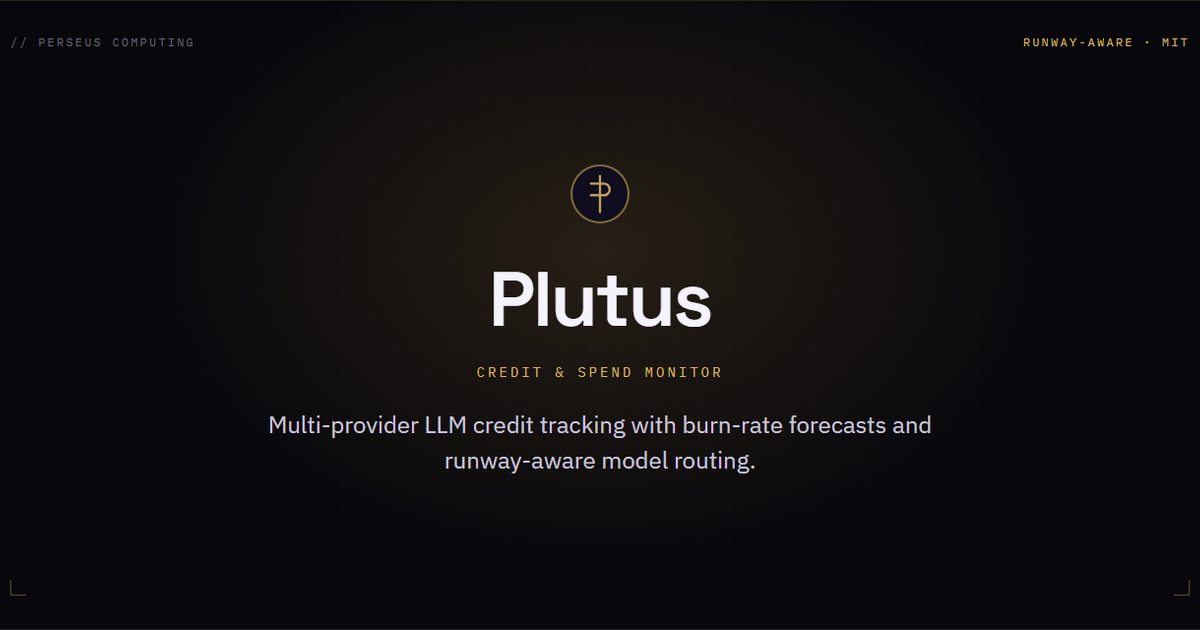
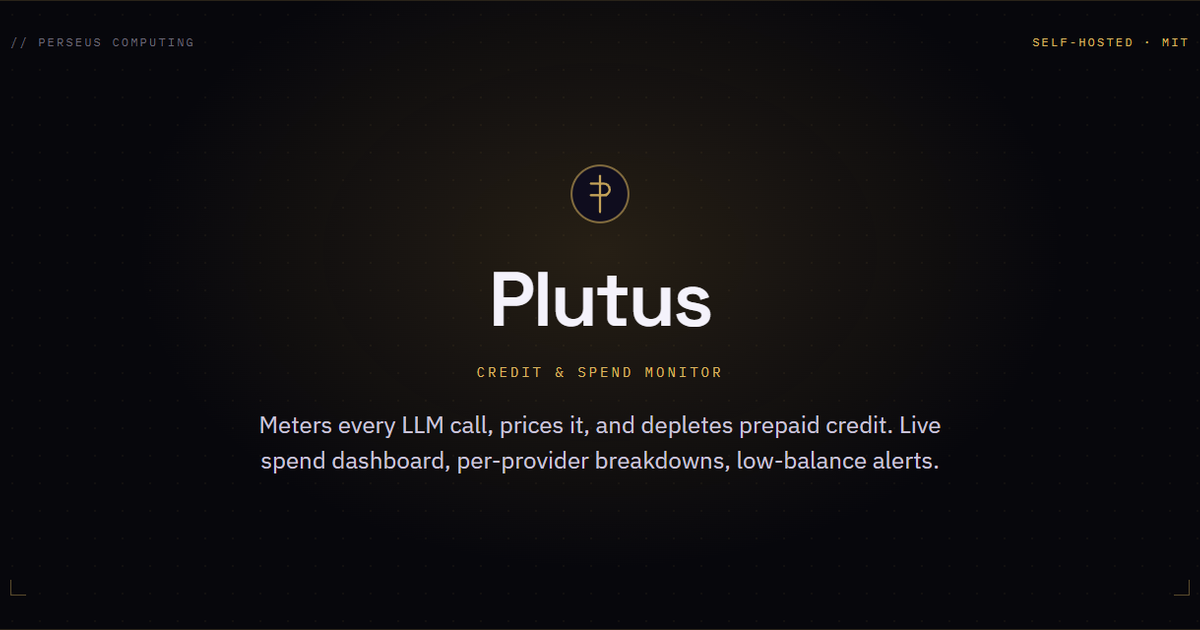
Correct Plutus positioning to shipped product
Plutus is usage metering + prepaid-credit billing (Stripe, track()/Meter,
live spend dashboard), not "runway-aware model routing". Rewrites the
Plutus page (hero, features, ledger demo, badges, meta), homepage card,
and founder line to match; fixes the fake `plutus balance` CLI to real
`plutus demo` / `plutus meter`. Refreshes the Plutus OG share image.
Zero em-dashes preserved.

Changed region(s): [[0.2158, 0.7238, 0.8017, 0.754], [0.2158, 0.6635, 0.8017, 0.6937], [0.8325, 0.0603, 0.9558, 0.0905]]

diff --git a/plutus/index.html b/plutus/index.html
@@ -7,19 +7,19 @@
 <script>try{var t=localStorage.getItem('perseus-theme');if(t)document.documentElement.setAttribute('data-theme',t)}catch(e){}</script>
 <link rel="icon" href="/assets/perseus.svg">
 <link rel="canonical" href="https://perseus.observer/plutus/">
-<meta name="description" content="Plutus tracks live LLM provider balances and spend in one local ledger: hourly refresh, per-provider breakdown, no dashboard login.">
+<meta name="description" content="Plutus meters every LLM call, prices it, and depletes prepaid credit: one local ledger, live spend dashboard, per-provider breakdowns. Self-hosted, MIT.">
 <meta name="theme-color" content="#0A0A12">
 <meta property="og:type" content="website">
 <meta property="og:site_name" content="Perseus">
 <meta property="og:title" content="Plutus: LLM provider credit &amp; spend monitor">
-<meta property="og:description" content="Plutus tracks live LLM provider balances and spend in one local ledger: hourly refresh, per-provider breakdown, no dashboard login.">
+<meta property="og:description" content="Plutus meters every LLM call, prices it, and depletes prepaid credit: one local ledger, live spend dashboard, per-provider breakdowns. Self-hosted, MIT.">
 <meta property="og:url" content="https://perseus.observer/plutus/">
 <meta property="og:image" content="https://perseus.observer/assets/og/plutus.png">
 <meta property="og:image:width" content="1200">
 <meta property="og:image:height" content="630">
 <meta name="twitter:card" content="summary_large_image">
 <meta name="twitter:title" content="Plutus: LLM provider credit &amp; spend monitor">
-<meta name="twitter:description" content="Plutus tracks live LLM provider balances and spend in one local ledger: hourly refresh, per-provider breakdown, no dashboard login.">
+<meta name="twitter:description" content="Plutus meters every LLM call, prices it, and depletes prepaid credit: one local ledger, live spend dashboard, per-provider breakdowns. Self-hosted, MIT.">
 <meta name="twitter:image" content="https://perseus.observer/assets/og/plutus.png">
 <link rel="stylesheet" href="/assets/fonts.css">
 <link rel="stylesheet" href="/assets/tokens.css">
@@ -55,19 +55,19 @@
   <div class="hero-inner">
     <span class="eyebrow gold">
       <svg width="13" height="13" viewBox="0 0 13 13" fill="none" stroke="currentColor" stroke-width="1.4" aria-hidden="true"><circle cx="6.5" cy="6.5" r="5"/><path d="M6.5 4v5M5 5.2h2.2a1.1 1.1 0 010 2.2H5"/></svg>
-      Provider credit monitoring
+      Credit &amp; spend monitor
     </span>
     <h1 class="hero-h" style="max-width:18ch;">Know your LLM spend <span style="color:var(--gold);">before</span> the bill does.</h1>
-    <p class="lead" style="max-width:62ch;">Plutus tracks live balances and spend across every major LLM provider in one local ledger: <span class="em">hourly refresh, per-provider breakdown</span>, no dashboard login required.</p>
+    <p class="lead" style="max-width:62ch;">Plutus meters every LLM call, prices it, and depletes prepaid credit, all in one local ledger. <span class="em">Live spend dashboard, per-provider breakdowns</span>. No cloud, no login.</p>
     <div class="hero-cta">
       <div class="install gold">
-        <span><span class="pr">$</span> plutus balance</span>
-        <button data-copy="plutus balance">Copy</button>
+        <span><span class="pr">$</span> plutus demo</span>
+        <button data-copy="plutus demo">Copy</button>
       </div>
       <a href="https://github.com/Perseus-Computing-LLC/plutus" class="btn btn-ghost">View on GitHub ↗</a>
     </div>
     <div class="statstrip">
-      <div class="stat"><div class="n gold">Hourly</div><div class="c">Balance refresh</div></div>
+      <div class="stat"><div class="n gold">Live</div><div class="c">Spend metering</div></div>
       <div class="stat"><div class="n">All</div><div class="c">Major providers</div></div>
       <div class="stat"><div class="n">Local</div><div class="c">Spend ledger</div></div>
       <div class="stat"><div class="n">0</div><div class="c">Cloud dependencies</div></div>
@@ -85,16 +85,16 @@
     <h2 class="h" style="max-width:24ch; margin-bottom:48px;">Every provider's spend in <span style="color:var(--gold);">one ledger</span>.</h2>
     <div class="cards">
       <div class="card">
-        <h3>Live balances</h3>
-        <p>Pulls remaining credit from each provider on an hourly cadence, with no manual dashboard checks.</p>
+        <h3>Meter every call</h3>
+        <p>One <code class="mono">track()</code> per call writes an immutable, priced usage event: exact cost when you have it, estimated from tokens when you don't.</p>
       </div>
       <div class="card">
-        <h3>Unified spend ledger</h3>
-        <p>Normalizes usage across providers into a single local record you can query, export, and audit.</p>
+        <h3>Prepaid-credit ledger</h3>
+        <p>An append-only ledger depletes prepaid credit as calls land. Normalized across providers into a single local record you can query, export, and audit.</p>
       </div>
       <div class="card">
-        <h3>Burn-rate alerts</h3>
-        <p>Set thresholds per provider and get warned locally before a key runs dry mid-session.</p>
+        <h3>Live dashboard &amp; alerts</h3>
+        <p>A dark-themed dashboard shows balance, burn, and per-provider, workspace, and task breakdowns. Low-balance and budget-cap alerts warn you early.</p>
       </div>
     </div>
   </div>
@@ -108,17 +108,18 @@
         <svg width="13" height="13" viewBox="0 0 13 13" fill="none" stroke="currentColor" stroke-width="1.4" aria-hidden="true"><circle cx="6.5" cy="6.5" r="5"/><path d="M6.5 4v5M5 5.2h2.2a1.1 1.1 0 010 2.2H5"/></svg>
         One command
       </span>
-      <h2 class="h" style="margin-bottom:20px;">A balance check that fits in your prompt.</h2>
-      <p class="lead" style="font-size:16px;">Run it standalone, or let Perseus pull live balances into your context file so your assistant knows the budget it's working against.</p>
+      <h2 class="h" style="margin-bottom:20px;">One <code class="mono">track()</code> per call. Prepaid credit, live.</h2>
+      <p class="lead" style="font-size:16px;">Meter from the CLI, or drop one <code class="mono">track()</code> into your agent's hot path. Perseus can pull the remaining prepaid credit into your context file so your assistant knows the budget it's working against.</p>
     </div>
     <div class="term">
-      <div class="term-bar"><span class="d"></span><span class="d"></span><span class="d"></span><span class="f">plutus balance</span></div>
-      <pre>PROVIDER       BALANCE      7D BURN
-<span class="ai">●</span> provider-a   <span class="br">$142.80</span>     $31.20
-<span class="ai">●</span> provider-b   <span class="br">$ 88.05</span>     $12.40
-<span class="gr">●</span> provider-c   <span class="br">$310.00</span>     $ 4.10
+      <div class="term-bar"><span class="d"></span><span class="d"></span><span class="d"></span><span class="f">plutus meter</span></div>
+      <pre><span class="c6">$</span> plutus meter --provider anthropic --model claude-opus-4-8 \
+             --task code_review --input 8200 --output 2400
 
-<span class="c6">updated 14m ago · local ledger</span></pre>
+<span class="gr">✓</span> metered   <span class="br">$0.184</span>   anthropic/claude-opus-4-8
+<span class="gr">✓</span> prepaid credit   <span class="br">$49.82</span> remaining
+
+<span class="c6">dashboard → http://localhost:8420 · local ledger</span></pre>
     </div>
   </div>
 </section>
@@ -134,7 +135,7 @@
     </div>
     <div class="badges center">
       <span class="badge">MIT licensed</span>
-      <span class="badge">Hourly refresh</span>
+      <span class="badge">Live dashboard</span>
       <span class="badge">0 cloud dependencies</span>
     </div>
   </div>

diff --git a/index.html b/index.html
@@ -277,7 +277,7 @@ Tests: <span class="br">1,185 passing</span></pre>
           <div class="chip"><svg width="40" height="40" viewBox="0 0 48 48" fill="none"><rect x="9" y="11" width="22" height="4" rx="2" fill="var(--gold)"/><rect x="9" y="19" width="30" height="4" rx="2" fill="var(--gold)" fill-opacity=".8"/><rect x="9" y="27" width="16" height="4" rx="2" fill="var(--gold)" fill-opacity=".8"/><rect x="9" y="35" width="26" height="4" rx="2" fill="var(--gold)" fill-opacity=".8"/><circle cx="35" cy="13" r="3.4" fill="var(--gold-ink)"/></svg></div>
           <span class="pill gold">ledger</span>
         </div>
-        <div><h3>Plutus</h3><p>Provider credit monitoring: live balance tracking, spend ledger, and hourly refresh across all major LLM providers.</p></div>
+        <div><h3>Plutus</h3><p>Usage metering and prepaid-credit billing: prices every LLM call, depletes prepaid credit, and shows spend on a live dashboard.</p></div>
         <span class="open" style="color:var(--text-faint);">Open ↗</span>
       </a>
     </div>
@@ -336,7 +336,7 @@ Tests: <span class="br">1,185 passing</span></pre>
           <div style="display:flex; gap:9px;"><span style="color:var(--amber);">✓</span><span style="color:var(--text-dim);"><b style="color:var(--text);">Perseus v1.0.17</b>: 30 MCP tools, live context engine</span></div>
           <div style="display:flex; gap:9px;"><span style="color:var(--amber);">✓</span><span style="color:var(--text-dim);"><b style="color:var(--text);">Perseus Vault v2.17.1</b>: 55 tools, persistent memory server</span></div>
           <div style="display:flex; gap:9px;"><span style="color:var(--amber);">✓</span><span style="color:var(--text-dim);"><b style="color:var(--text);">MCTS</b>: 30+ security analyzers</span></div>
-          <div style="display:flex; gap:9px;"><span style="color:var(--amber);">✓</span><span style="color:var(--text-dim);"><b style="color:var(--text);">Plutus</b>: provider credit monitoring</span></div>
+          <div style="display:flex; gap:9px;"><span style="color:var(--amber);">✓</span><span style="color:var(--text-dim);"><b style="color:var(--text);">Plutus</b>: usage metering &amp; prepaid-credit billing</span></div>
         </div>
       </div>
       <div style="display:flex; flex-direction:column; gap:16px;">